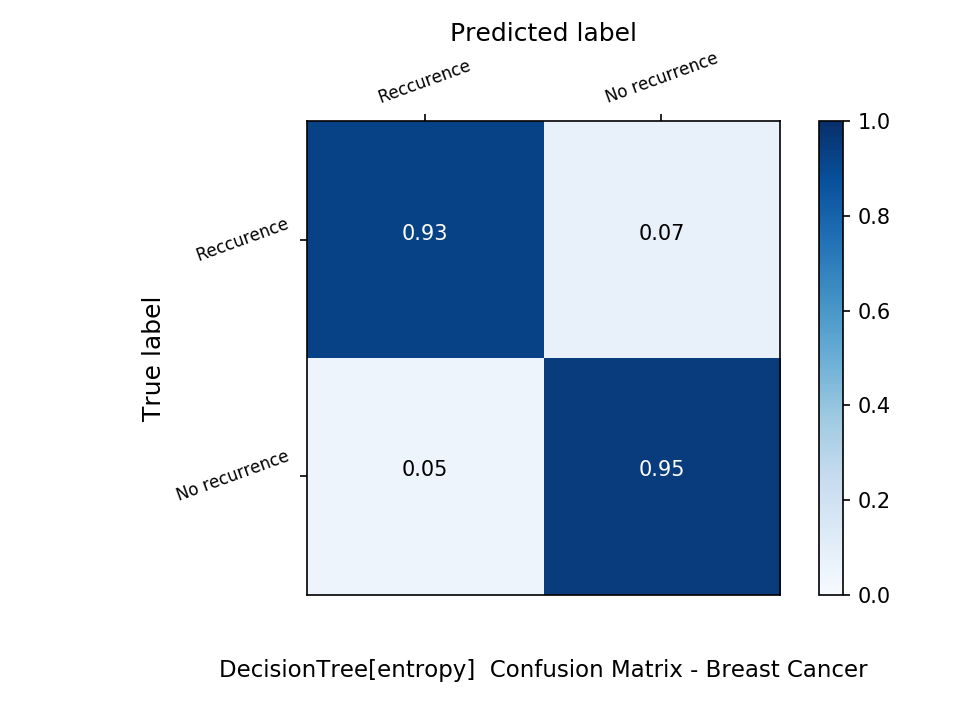
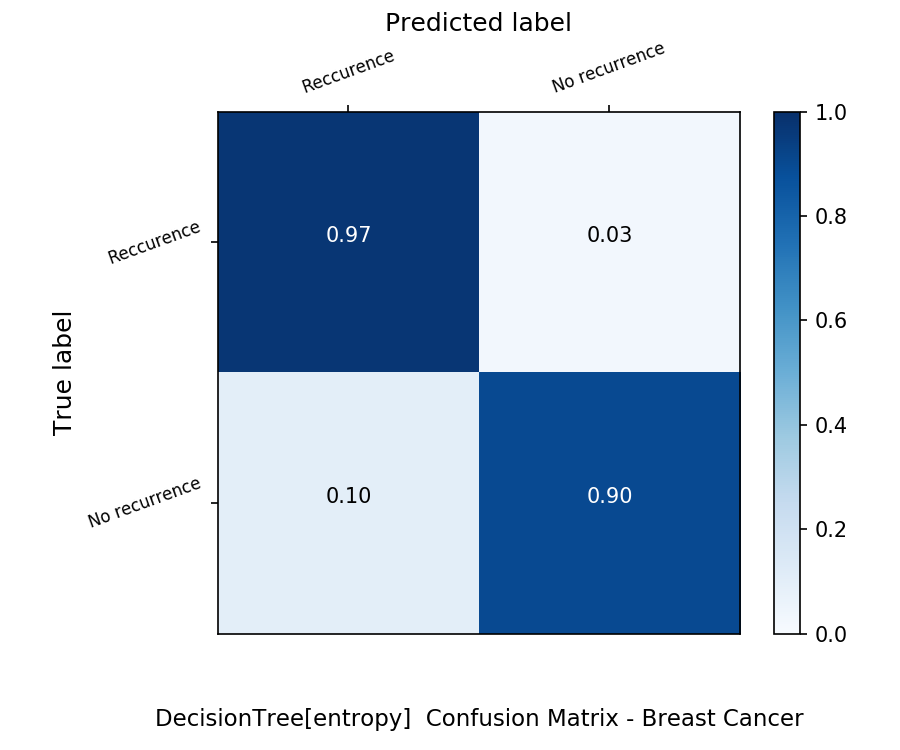
changed balance function

diff --git a/ex_1_total/classifier.py b/ex_1_total/classifier.py
@@ -369,13 +369,12 @@ def balance_ds(ds, dataset):
         length = int( len(t) + 0.1* len(t) )
 
         f = ds.loc[ds[target] == False]
-        f = f.sample(frac=1) # shuffling the majority class
+        f = f.sample(frac=1).reset_index() # shuffling the majority class. Resetting indices for accessing it below
 
     randomlist = []
     for i in range(0, length):
-        n = random.randint(1,len(f))
+        n = random.randint(1,len(f)-1)
         randomlist.append(n)
-        print(randomlist)
 
     random_f = f.iloc[randomlist]
 
@@ -405,10 +404,10 @@ datasets = ['asteroids','advertisingBidding' , 'breastCancer', 'drugs' ]
 datasets = ['asteroids','advertisingBidding' , 'breastCancer', 'drugs' ]
 
 train_test = True
-balance = False
+balance = True
 
 datasets = ['asteroids','advertisingBidding' , 'breastCancer' ]
-datasets = ['drugs']
+datasets = ['breastCancer']
 
 def main():
 
@@ -457,9 +456,8 @@ def main():
                 if classifier == 'DecisionTree' : # Run DecisionTreeClassifier
                     for param in ['gini','entropy'] :  # run the classifier with two different parameter
                     #for param in ['gini', 'entropy']:  # run the classifier with two different parameter
-
-                        cf = Classifier(x_train,y_train, classifier=classifier, criterion=param )
                         print("\n\n\n\n\nResults of " + classifier + " " + param + ". Index for " + target )
+                        cf = Classifier(x_train,y_train, classifier=classifier, criterion=param )
                         y_prediction=predict(x_test,cf,target)
                         confusion_m, accuracy, report = evaluation(y_test, y_prediction )
                         printMatrix(target, confusion_m, classifier, param, dataset, balance = balance)
@@ -467,16 +465,16 @@ def main():
 
                 if classifier == 'KNeighbors':
                     for param in [5, 10 , 50]:
-                        cf = Classifier(x_train, y_train, classifier=classifier, n_neighbors = param )
                         print("\n\n\n\n\nResults of " + classifier + " with k=" + str(param) + ". Index for " + target )
+                        cf = Classifier(x_train, y_train, classifier=classifier, n_neighbors = param )
                         y_prediction=predict(x_test,cf,target)
                         confusion_m, accuracy, report = evaluation(y_test, y_prediction )
                         printMatrix(target, confusion_m, classifier, param, dataset,balance = balance)
 
                 if classifier == 'GaussianNB':
                     for param in ['naiveB']:
-                        cf = Classifier(x_train, y_train, classifier=classifier)
                         print("\n\n\n\n\nResults of " + classifier + " " + param + ". Index for " + target )
+                        cf = Classifier(x_train, y_train, classifier=classifier)
                         y_prediction=predict(x_test, cf, target)
                         confusion_m, accuracy, report = evaluation(y_test, y_prediction )
                         printMatrix(target, confusion_m, classifier, param, dataset, balance = balance)
